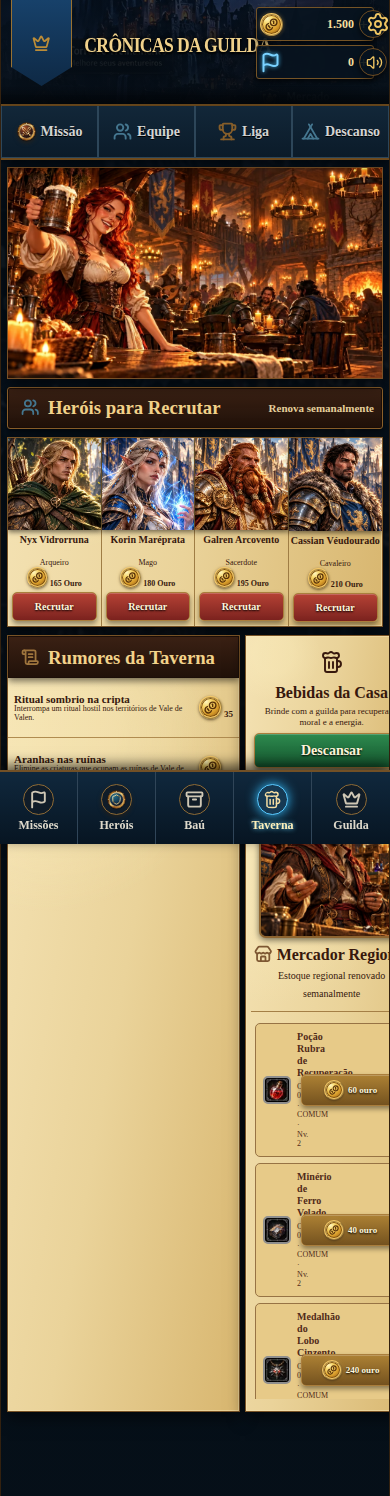
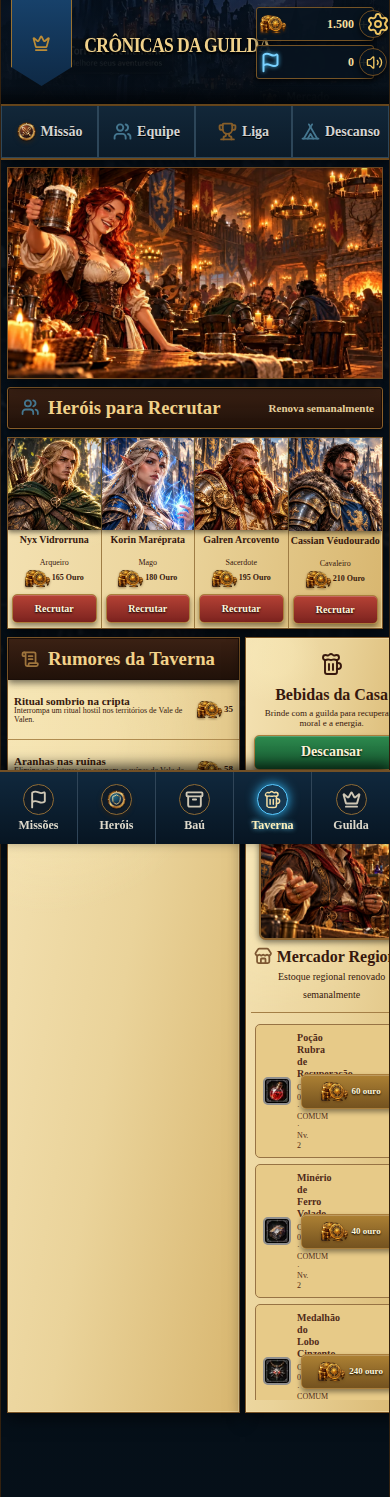
Integra brasões definitivos, troféu, Forjador e ouro realista
Atualiza todas as telas de economia, classificação e forja com artes aprovadas; preserva saldo, personagens e campanhas. Compilação, testes de assets e revisão visual PC/mobile aprovados.

diff --git a/app/game-client.tsx b/app/game-client.tsx
@@ -26,7 +26,6 @@ import { portraitSource } from "@/lib/portraits";
 import { tavernArtwork } from "@/lib/scene-art/tavern";
 import merchantPortrait from "@/lib/portrait-art/merchant";
 import { GameSymbol, GAME_SYMBOLS, type GameSymbolKind } from "./game-symbols";
-import { RealisticTrophy } from "./league-trophy";
 import { EQUIPMENT_SLOTS, type EquipmentSlotId } from "@/lib/equipment-layout";
 import { testShop, CATALOG_ITEMS, CATALOG_BY_ID, TEST_RECIPES, equippedPosition } from "@/lib/catalog-test";
 import { missionLootPreview } from "@/lib/catalog-runtime";
@@ -39,17 +38,29 @@ const ATTRIBUTE_SYMBOLS:Record<string,GameSymbolKind>={Ataque:"attack",Defesa:"d
 
 const missionArt = ["/reference/mission-1.webp", "/reference/mission-2.webp", "/reference/mission-3.webp", "/reference/mission-4.webp", "/reference/mission-5.webp"];
 const valenMissionArt = Array.from({ length: 7 }, (_, i) => `/reference/valen-mission-${i + 1}.jpg`);
-const LEAGUE_PLAYER_CREST = "/league/crest-player.webp";
-const RIVAL_CREST_NAMES: Record<string,number> = {
-  "Cavaleiros da Tempestade":0, "Escudos da Fronteira":1,
-  "Arautos da Floresta":2, "Andarilhos da Montanha":3, "Arautos da Torre":4
+const LEAGUE_PLAYER_CREST = "/league/crest-alvorecer.webp";
+const LEAGUE_TROPHY = "/league/trophy-real.webp";
+const RIVAL_CREST_NAMES: Record<string,string> = {
+  "escudos da fronteira":"fronteira",
+  "vigias da montanha":"vigias",
+  "dragoes do vale":"dragoes",
+  "guardioes da montanha":"guardioes",
+  "cacadores da torre":"cacadores",
+  // Compatibilidade com campanhas antigas e guildas geradas previamente.
+  "cavaleiros da tempestade":"fronteira",
+  "arautos da floresta":"vigias",
+  "andarilhos da montanha":"guardioes",
+  "arautos da torre":"cacadores"
 };
-function leagueCrest(guild:{id:string;name:string}) {
-  if(guild.id==="player") return LEAGUE_PLAYER_CREST;
-  const named=RIVAL_CREST_NAMES[guild.name];
-  const rivalId=/^rival-(\d+)$/.exec(guild.id);
-  const fallback=rivalId?Number(rivalId[1])%5:Math.abs([...guild.id].reduce((acc,ch)=>acc*31+ch.charCodeAt(0),0))%5;
-  return "/league/crest-rival-"+(named??fallback)+".webp";
+const RIVAL_CRESTS=["fronteira","vigias","dragoes","guardioes","cacadores"];
+function leagueCrest(guild:{id:string;name:string}){
+  if(guild.id==="player")return LEAGUE_PLAYER_CREST;
+  const key=guild.name.normalize("NFD").replace(/[\u0300-\u036f]/g,"").toLowerCase().trim();
+  const matching=RIVAL_CREST_NAMES[key];
+  if(matching)return "/league/crest-"+matching+".webp";
+  const guildIndex=/^rival-(\d+)$/.exec(guild.id);
+  const index=guildIndex?Number(guildIndex[1]):[...guild.id].reduce((n,ch)=>(n*31+ch.charCodeAt(0))>>>0,0);
+  return "/league/crest-"+RIVAL_CRESTS[index%RIVAL_CRESTS.length]+".webp";
 }
 const itemSlots = new Set(["weapon","offhand","helmet","armor","gloves","boots","accessory"]);
 const specialtyNames: Record<string,string> = {
@@ -476,14 +487,14 @@ function LeaguePage({ state, team, act, busy }: { state: Campaign; team: string[
   return <section className="screen league-screen">
     <div className="league-summary parchment">
       <div><span>Nossa Posição</span><strong>{place}º</strong></div>
-      <div className="big-crest"><img src={LEAGUE_PLAYER_CREST} alt="Brasão da Guilda do Alvorecer: sol dourado sobre montanhas e fundo azul." width={90} height={104}/></div>
-      <div><h2>{state.name}</h2><p><RealisticTrophy size={28}/> {state.points} Pontos da Liga</p><small><GameSymbol kind="fame"/> Prestígio: {state.fame} · Divisão {rank(state)}</small></div>
+      <div className="big-crest"><img src={LEAGUE_PLAYER_CREST} alt={"Brasão de "+state.name} width={90} height={104}/></div>
+      <div><h2>{state.name}</h2><p><img className="league-trophy-art" src={LEAGUE_TROPHY} alt="" width={28} height={28}/> {state.points} Pontos da Liga</p><small><GameSymbol kind="fame"/> Prestígio: {state.fame} · Divisão {rank(state)}</small></div>
     </div>
-    <ParchmentTitle icon={<RealisticTrophy size={31}/>} title="Classificação da Liga" side={<span>Temporada {state.season}</span>} />
+    <ParchmentTitle icon={<img className="league-trophy-art" src={LEAGUE_TROPHY} alt="" width={31} height={31}/>} title="Classificação da Liga" side={<span>Temporada {state.season}</span>} />
     <div className="league-table parchment">
-      <div className="league-head"><b>#</b><b>Guilda</b><b><RealisticTrophy size={18}/> Pontos</b><b><GameSymbol kind="reward"/> Recompensa</b></div>
+      <div className="league-head"><b>#</b><b>Guilda</b><b><img className="league-trophy-art" src={LEAGUE_TROPHY} alt="" width={18} height={18}/> Pontos</b><b><GameSymbol kind="reward"/> Recompensa</b></div>
       {table.slice(0,5).map((g,i) => <div key={g.id} className="league-row" data-player={g.id === "player"}>
-        <strong>{i+1}</strong><span><span className="league-crest-frame"><img className="league-rival-crest" src={leagueCrest(g)} alt={"Brasão de "+g.name} width={42} height={48}/></span>{g.name}</span><b><RealisticTrophy size={25}/> {g.points}</b><small><GameSymbol kind="reward"/> {leaguePrize(i+1, state.leagueTier)} ouro</small>
+        <strong>{i+1}</strong><span><img className="league-rival-crest" src={leagueCrest(g)} alt={"Brasão de "+g.name} width={42} height={48}/>{g.name}</span><b><img className="league-trophy-art" src={LEAGUE_TROPHY} alt="" width={25} height={25}/> {g.points}</b><small><GameSymbol kind="reward"/> {leaguePrize(i+1, state.leagueTier)} ouro</small>
       </div>)}
     </div>
     <ParchmentTitle icon={<GameSymbol kind="battle"/>} title="Desafio de Guilda" side={<span>Equipe: {team.length}/4</span>} />
@@ -840,7 +851,7 @@ function GuildPage({
   const raidTeams = availableRaidHeroes.length >= 9 ? [availableRaidHeroes.slice(0,3).map(h=>h.id),availableRaidHeroes.slice(3,6).map(h=>h.id),availableRaidHeroes.slice(6,9).map(h=>h.id)] : [];
   return <section className="screen guild-screen">
     <div className="guild-identity parchment">
-      <div className="guild-banner"><img src={LEAGUE_PLAYER_CREST} alt="Brasão da Guilda do Alvorecer" width={88} height={102}/></div>
+      <div className="guild-banner"><img src={LEAGUE_PLAYER_CREST} alt={"Brasão de "+state.name} width={88} height={102}/></div>
       <div><h2>{state.name}</h2><p>Força na união, glória em cada jornada.</p><span><GameSymbol kind="squad"/> Membros: {state.heroes.length}/12</span><span><GameSymbol kind="defense"/> Nível da Guilda: {Math.max(1,Math.ceil(state.fame/120))}</span></div>
       <aside><strong><GameSymbol kind="gold"/> Tesouro {fmt(state.gold)}</strong><strong><GameSymbol kind="fame"/> Renome {state.fame}</strong><strong><GameSymbol kind="league"/> Liga {rank(state)}</strong></aside>
     </div>
@@ -851,7 +862,13 @@ function GuildPage({
       const arts = ["/reference/guild-training.webp","/reference/guild-market.webp","/reference/guild-sanctuary.webp","/reference/guild-workshop.webp"];
       return <article key={key}><img src={arts[index%arts.length]} alt="" /><div><h3>{spec.name} <small>Nv. {lvl}</small></h3><p>{spec.description}</p></div><div><span><GameSymbol kind="gold"/> {cost}</span><button className="action-button green" disabled={busy || lvl >= max || state.gold < cost} onClick={() => act({type:"upgrade-hq",building:key})}>{lvl >= max ? "Máximo" : "Melhorar"}</button></div></article>;
     })}</div>
-    <section className="parchment catalog-forge"><h3><GameSymbol kind="forge" size={18}/> Forja · Nv. {state.hq.forge}</h3><small>Consome materiais e taxa em ouro. Sem itens gratuitos.</small>
+    <section className="parchment catalog-forge"><h3><GameSymbol kind="forge" size={18}/> Forja · Nv. {state.hq.forge}</h3>
+    <div className="guild-forjador">
+      <img src="/guild/forjador.webp" alt="O Forjador, mestre artesão da guilda, trabalhando com martelo e bigorna diante da fornalha." width={720} height={960} loading="lazy"/>
+      <div><strong>O Forjador</strong><p>O mestre artesão da guilda transforma recursos raros em armas e equipamentos. Traga seus materiais, pague a taxa e escolha sua encomenda.</p>
+       <small>{state.hq.forge>0?"Forja disponível · nível "+state.hq.forge:"Aprimore a Forja na Sede para liberar suas receitas."}</small></div>
+    </div>
+    <small>Consome materiais e taxa em ouro. Sem itens gratuitos.</small>
     <div className="catalog-shop">{TEST_RECIPES.filter(r=>r.forge>0&&r.forge<=state.hq.forge).slice(0,16).map(r=>{
       const enough=Object.entries(r.materials).every(([k,q])=>state.chest.filter(i=>i.key===k&&!i.equippedTo).length>=q);
       return <div key={r.id}><ItemArt itemKey={r.result}/><span><strong>{ITEMS[r.result]?.name}</strong><small>{Object.entries(r.materials).map(([k,q])=>q+"× "+(ITEMS[k]?.name||k)).join(" + ")}</small></span>

diff --git a/app/ui.css b/app/ui.css
@@ -2212,3 +2212,94 @@ svg.game-symbol.game-emblem{stroke:initial;stroke-width:initial;filter:drop-shad
  .stat-grid b svg.game-emblem{width:23px;height:23px;min-width:23px;min-height:23px;flex-basis:23px}
  .stat-grid b em{font-size:11px}
 }
+
+/* Artes aprovadas: brasões originais isolados, sem banners antigos ou molduras que cortem. */
+.league-screen .league-row .league-rival-crest {
+  display:block;
+  flex:0 0 auto;
+  width:clamp(38px,4.1vw,54px);
+  height:clamp(46px,5vw,64px);
+  object-fit:contain;
+  object-position:center;
+  clip-path:none;
+  background:transparent;
+  filter:drop-shadow(0 2px 2px rgba(50,28,11,.35));
+}
+.league-screen .league-row>span{overflow:visible;min-width:0}
+.league-summary .big-crest,.guild-banner{background:transparent;clip-path:none;overflow:visible}
+.league-summary .big-crest img,.guild-banner img{
+  display:block;object-fit:contain;object-position:center;
+  background:transparent;clip-path:none;
+}
+.league-screen .league-trophy-art{
+  display:inline-block;
+  vertical-align:middle;
+  width:clamp(20px,2.25vw,32px);
+  height:clamp(23px,2.55vw,36px);
+  min-width:0;min-height:0;
+  object-fit:contain;
+  flex:0 0 auto;
+  background:transparent;
+  filter:drop-shadow(0 2px 1px #5b321e66);
+}
+.league-screen .league-head .league-trophy-art{width:20px;height:25px}
+.league-screen .league-row>b .league-trophy-art{width:27px;height:32px}
+.league-screen .league-row .league-rival-crest{max-width:none;max-height:none}
+.league-screen .league-head>b,.league-screen .league-row>b{white-space:nowrap}
+/* Símbolos da economia: moedas fotorrealistas com fundo transparente. */
+img.game-symbol.game-coin{
+  width:27px;height:27px;min-width:22px;min-height:22px;max-width:none;
+  display:inline-block;vertical-align:middle;object-fit:contain;
+  box-sizing:border-box;
+  padding:0;border:0;border-radius:0;background:transparent;
+  box-shadow:none;filter:drop-shadow(0 1px 1px #50300e85);
+  flex:0 0 auto;
+}
+.header-resources button img.game-symbol--gold{width:30px;height:27px}
+.game-content img.game-symbol--gold,.game-content img.game-symbol--reward{color:inherit}
+.mission-rewards img.game-coin,.league-row img.game-coin{width:30px;height:26px}
+.catalog-shop button img.game-coin,.item-actions button img.game-coin{width:27px;height:25px}
+.guild-identity aside img.game-coin,.building-list img.game-coin{width:29px;height:27px}
+/* Mestre artesão: personagem visível mesmo antes de desbloquear receitas. */
+.guild-forjador{
+  margin:10px 0 12px;
+  display:grid;
+  grid-template-columns:minmax(100px,185px) minmax(0,1fr);
+  gap:clamp(12px,1.8vw,24px);
+  padding:10px;
+  align-items:center;
+  background:linear-gradient(100deg,#3d251b,#714129 26%,#d2a568 100%);
+  border:2px ridge #a77234;
+  border-radius:6px;
+  box-shadow:inset 0 0 10px #1a0d0755;
+}
+.guild-forjador>img{
+  display:block;
+  width:100%;height:auto;max-height:235px;object-fit:contain;
+  box-shadow:0 2px 8px #120b0880;
+  border:1px solid #c79b53;
+}
+.guild-forjador>div{display:grid;gap:8px;align-content:center;color:#fff2cf}
+.guild-forjador strong{
+  font-size:clamp(19px,2vw,27px);
+  color:#ffdf9b;text-shadow:0 2px 3px #21120a;
+}
+.guild-forjador p{font-size:clamp(12px,1.2vw,16px);line-height:1.45;margin:0;color:#fff1d2}
+.guild-forjador small{font-size:clamp(10px,1vw,13px);font-weight:700;color:#ffd283}
+@media(max-width:650px){
+  .league-screen .league-row .league-rival-crest{width:33px;height:41px}
+  .league-screen .league-head .league-trophy-art{width:17px;height:20px}
+  .league-screen .league-row>b .league-trophy-art{width:18px;height:23px}
+  .header-resources button img.game-symbol--gold{width:26px;height:25px}
+  img.game-symbol.game-coin{width:25px;height:23px;min-width:20px;min-height:20px}
+  .guild-forjador{grid-template-columns:118px minmax(0,1fr);gap:10px;padding:8px}
+  .guild-forjador>img{max-height:180px}
+  .guild-forjador strong{font-size:18px}
+  .guild-forjador p{font-size:11px;line-height:1.32}
+  .guild-forjador small{font-size:10px}
+}
+@media(max-width:380px){
+  .guild-forjador{grid-template-columns:94px minmax(0,1fr)}
+  .guild-forjador>img{max-height:150px}
+  .league-screen .league-row .league-rival-crest{width:28px;height:35px}
+}

diff --git a/app/game-symbols.tsx b/app/game-symbols.tsx
@@ -67,6 +67,13 @@ export function GameSymbol({kind,size=18,className="",label}:{kind:GameSymbolKin
  const spec=GAME_SYMBOLS[kind],Icon=spec.icon;
  const id=useId().replace(/:/g,"");
  const ornamental=MEDIEVAL_EMBLEMS[kind];
+ // A moeda é uma peça física do mundo, não um desenho digital da interface.
+ if(kind==="gold"||kind==="reward"){
+   return <img src="/economy/gold-real.webp" width={size} height={size}
+      className={"game-symbol game-coin game-symbol--"+kind+(className?" "+className:"")}
+      alt={label||""} aria-hidden={label?undefined:true} loading="eager"/>;
+ }
+
  if(ornamental){
    return <svg className={"game-symbol game-emblem game-symbol--"+kind+(className?" "+className:"")}
       width={size} height={size} viewBox="0 0 48 48" role={label?"img":undefined} aria-label={label} aria-hidden={label?undefined:true} xmlns="http://www.w3.org/2000/svg">
